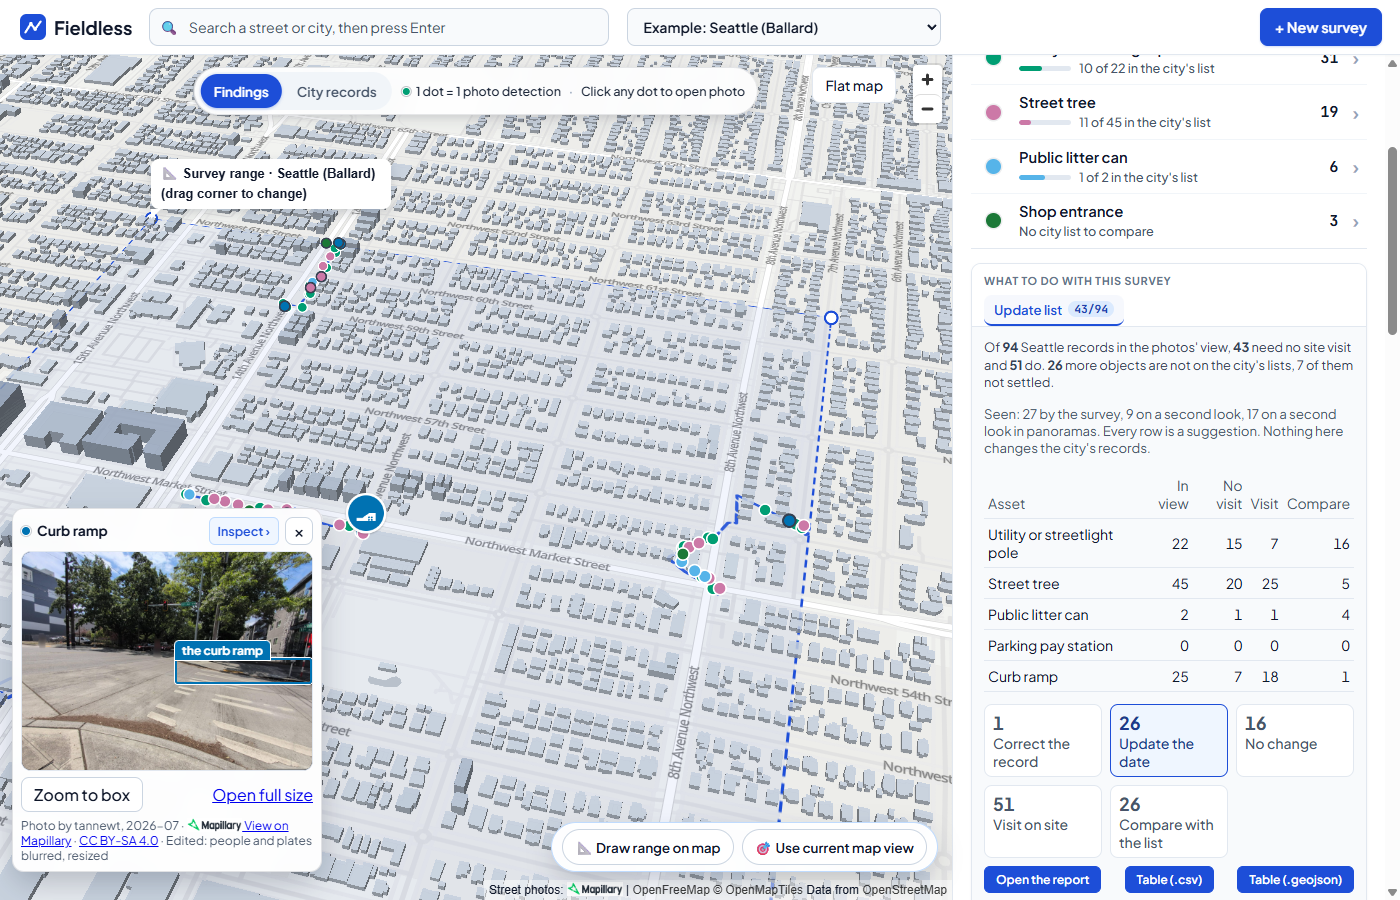
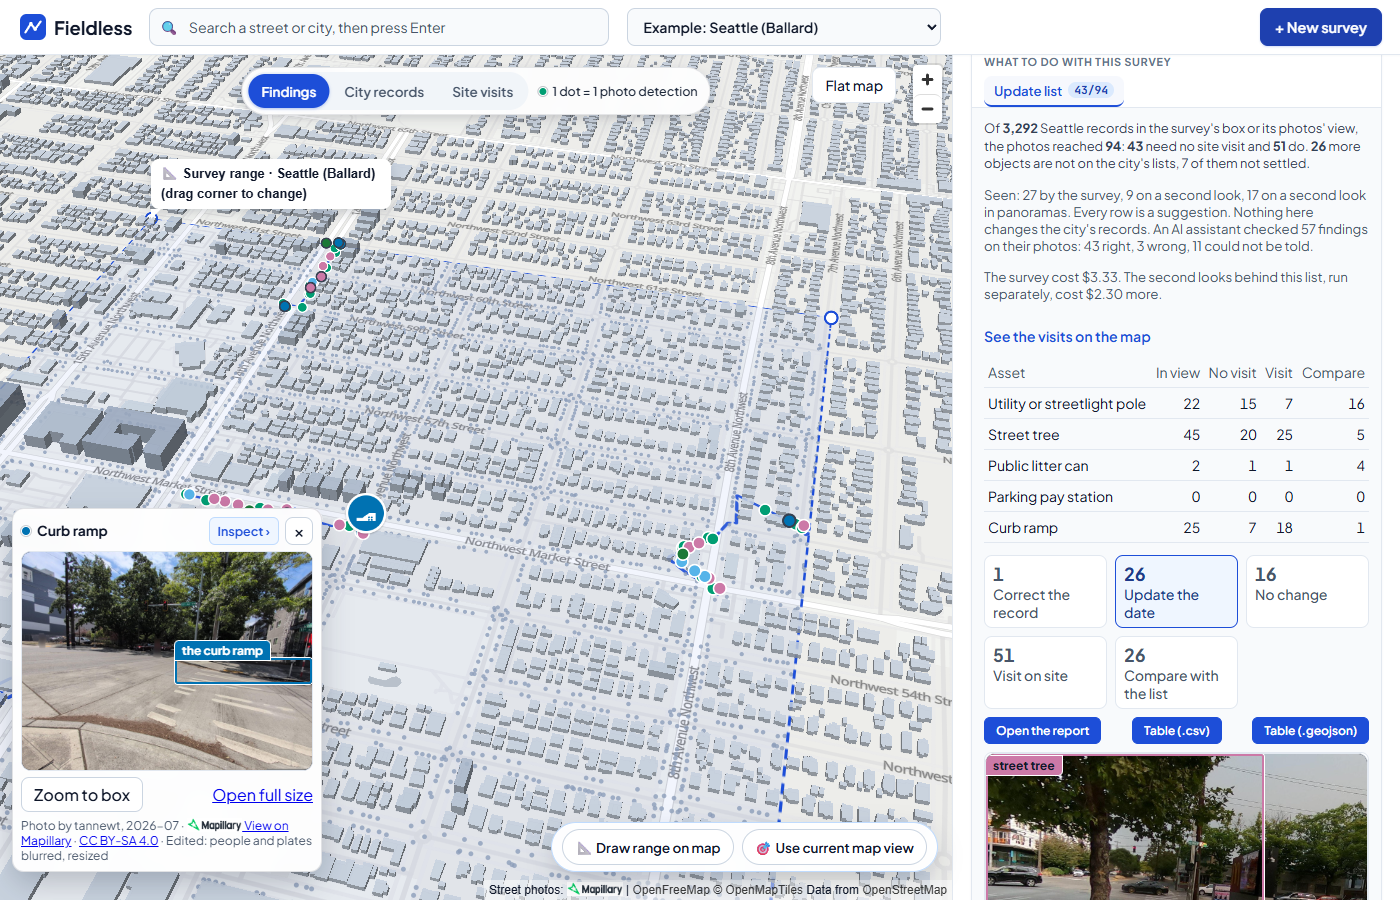
docs(readme): retake the update list screenshot on the final app
The Ballard example now says the photos reached 94 of 3,292 city records, and shows the survey cost and what the second looks add.

diff --git a/README.md b/README.md
@@ -8,7 +8,7 @@ One pass over the photos records street assets (utility and streetlight poles, s
 
 **Try it:** [live app](https://edward321416--fieldless-web.us-east.modal.run) (open a finished survey, or start your own; spend is capped) · the three example surveys: [Seattle, Ballard](https://edward321416--fieldless-web.us-east.modal.run/#scan=30) · [New York, Park Avenue South](https://edward321416--fieldless-web.us-east.modal.run/#scan=31) · [Seattle, Capitol Hill](https://edward321416--fieldless-web.us-east.modal.run/#scan=17) (older photos) · [read-only demo](https://huggingface.co/spaces/BBONG1201/fieldless) (the same surveys, static) · [Capitol Hill with an item Muse Spark added](https://edward321416--fieldless-web.us-east.modal.run/#scan=17&item=4)
 
-![The Ballard example in the app: the Update list says 43 of 94 city records need no site visit and 51 do; a table of five assets side by side; the rows sorted into Correct the record (1), Update the date (26), No change (16), Visit on site (51) and Compare with the list (26); buttons for the report and the CSV and GeoJSON tables. The street photo on the map shows its Mapillary credit](docs/images/update-list.png)
+![The Ballard example in the app: the Update list says the photos reached 94 of 3,292 city records in the survey's box, 43 of 94 need no site visit and 51 do, and what the survey and its second looks cost; a table of five assets side by side; the rows sorted into Correct the record (1), Update the date (26), No change (16), Visit on site (51) and Compare with the list (26); buttons for the report and the CSV and GeoJSON tables. The street photo on the map shows its Mapillary credit](docs/images/update-list.png)
 
 ## Why
 
